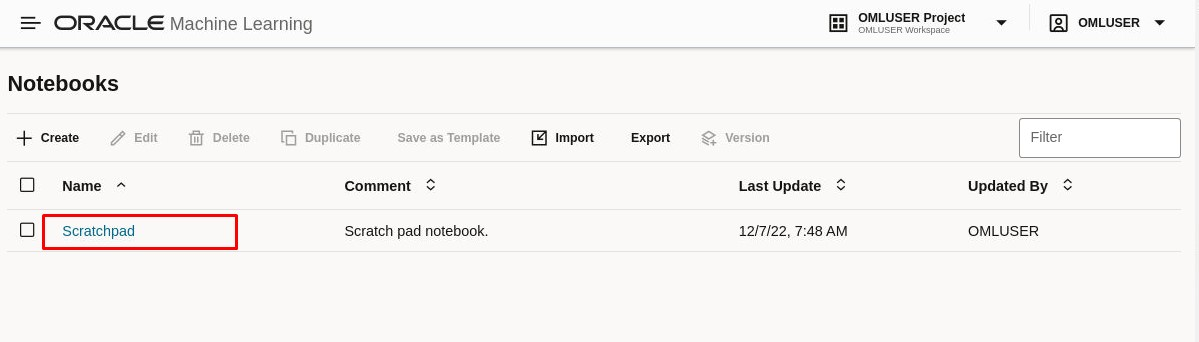
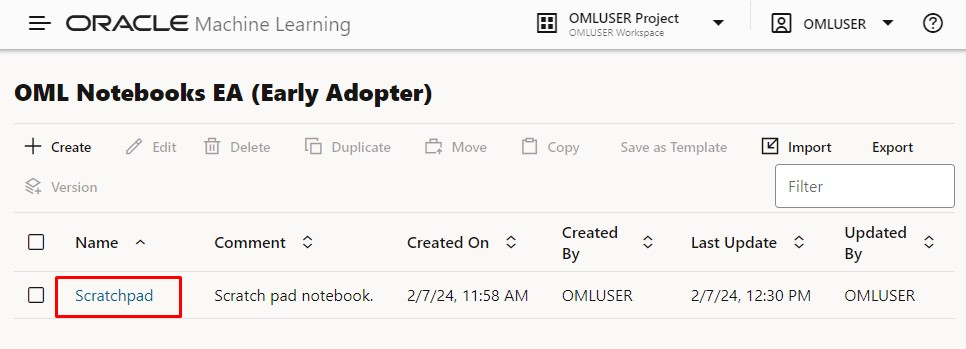
Quarterly QA - updated screenshots (#47)
* Updated screenshots

The OCI interface changed and I updated the screenshots on Database Actions button and menu.

* OML-Services WMS ID - 7681

Updated Screenshots on the OML interface

diff --git a/oml-services/oml-notebook-and-automl-ui/oml-notebook-and-automl-ui.md b/oml-services/oml-notebook-and-automl-ui/oml-notebook-and-automl-ui.md
@@ -44,12 +44,12 @@ Estimated Time: 15 minutes
 
    ![ADB OML connect](images/oml-login-user.jpg)
 
-* Open a Scratchpad
+* Open a Scratchpad. The Scratchpad will pe opened in Notebooks EA.
 
   ![Open Scratchpad](images/oml-homepage.jpg)
 
 
-* The notebook server is starting. Once opened, we can run a select on the ``CUSTOMER_INSURANCE`` table
+* The Notebook EA server is starting. Once opened, we can run a select on the ``CUSTOMER_INSURANCE`` table
     ```
     <copy> select * from customer_insurance;  </copy>
     ```
@@ -57,6 +57,9 @@ Estimated Time: 15 minutes
     ![customer insurance](images/scratchpad-select-cust-insurance.jpg)
 
  Notice the columns ``LTV`` and ``LTV_BIN`` when you scroll to the right. These are our targets for the machine learning process.
+
+  ![customer insurance results](images/scratchpad-select-cust-insurance_results.jpg)
+
 
 
   * Create the training table. For our AutoML UI a training table is not mandatory because it has the train/test split in the process. Also we will exclude columns later in the process. Considering this demo environment we are still spliting the data in train and test.
@@ -219,7 +222,7 @@ Estimated Time: 15 minutes
 
 ## Task 4: Score data against the model using SQL
 
-* Return to the OML Notebooks Scratchpad we created earlier. Click on the menu and chose Notebooks.
+* Return to the OML Notebooks EA Scratchpad we created earlier. Click on the menu and chose Notebooks.
 ![Classification Prediction](images/oml-menu-notebooks.jpg)
 
 
